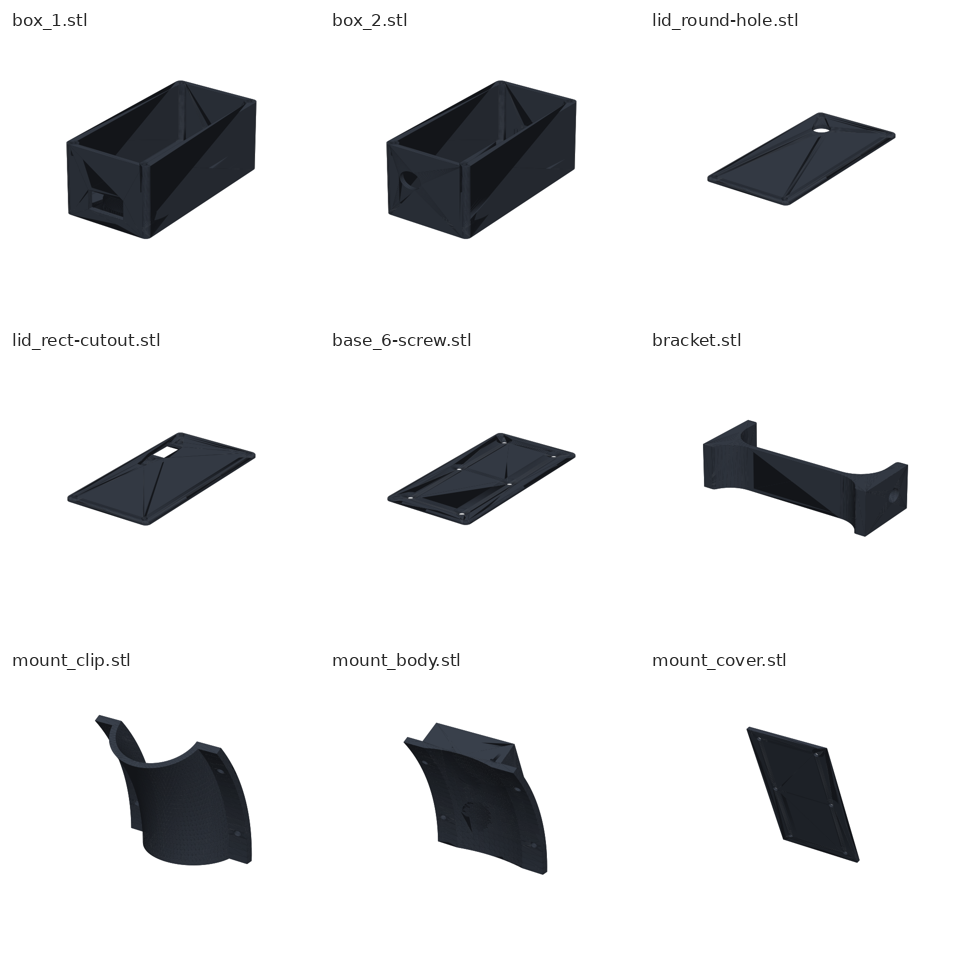
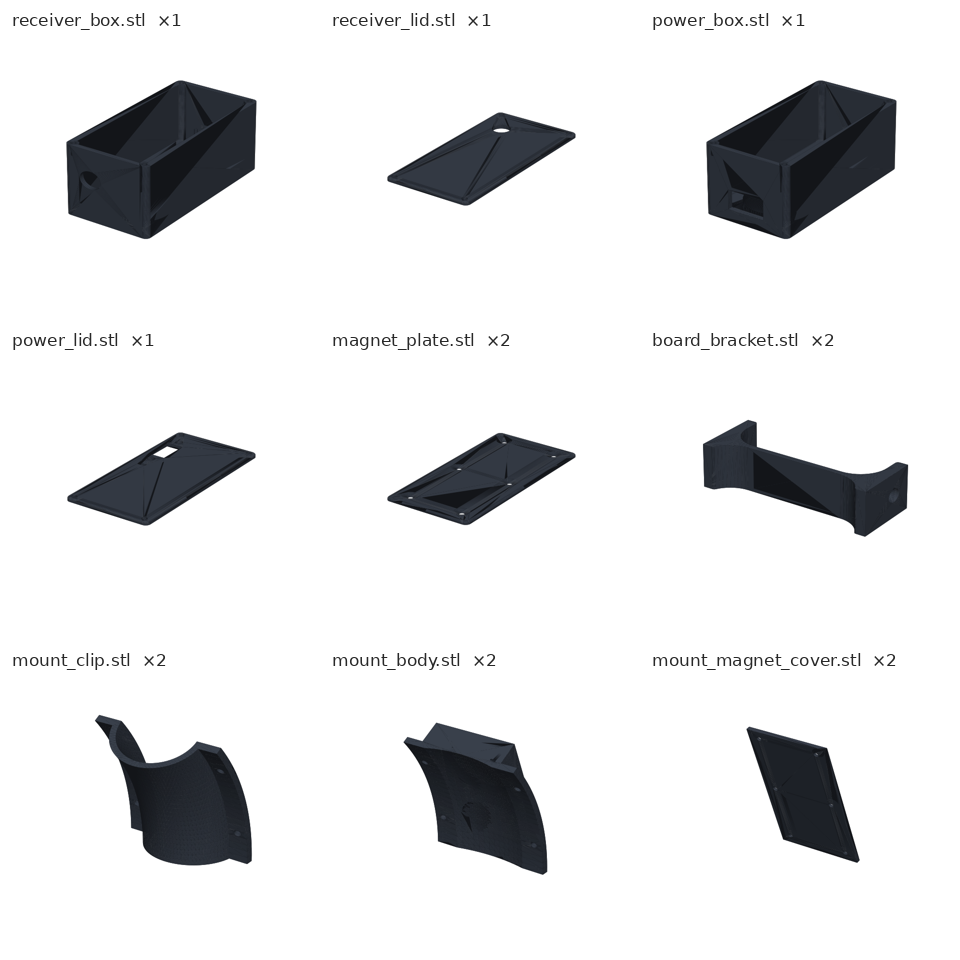
Name enclosure parts and set print quantities

diff --git a/hardware/README.md b/hardware/README.md
@@ -12,16 +12,15 @@ Printable STLs and the editable Fusion 360 sources for both enclosures.
 
 ![Headset module parts](headset-parts.png)
 
-The parts are named by their shape. The file names don't say which module each part belongs to, so check against the photos below:
-
 | Part | Qty | Notes |
 |---|---|---|
-| `box_1`, `box_2` | 1 each | Module bodies, 35 × 70 × 36 mm |
-| `lid_round-hole` | 1 | Lid with the encoder-shaft hole (receiver) |
-| `lid_rect-cutout` | 1 | Lid with the slide-switch cutout (power module) |
-| `base_6-screw` | 1 | Screwed panel, 6 × M2 |
-| `bracket` | 1 | Internal retaining bracket |
-| `mount_clip`, `mount_body`, `mount_cover` | 1 set per module (the plate has one set, so print it twice) | Curved headband mount (see below) |
+| `receiver_box` | 1 | Houses the ESP32-S3-Nano (the box with the round side hole) |
+| `receiver_lid` | 1 | Lid with the encoder-knob hole |
+| `power_box` | 1 | Houses the LiPo, HW-107, HW-106, switch and LED |
+| `power_lid` | 1 | Lid with the slide-switch cutout |
+| `magnet_plate` | 2 | One per box, 6 × M2 screws; it attaches the box to the headband mount |
+| `board_bracket` | 2 | Holds the ESP32 and HW-106 boards in place by sitting in the pin-header grooves (neither board has mounting holes) |
+| `mount_clip`, `mount_body`, `mount_magnet_cover` | 2 each | Curved headband mount, one per module (see below) |
 
 ![Transmitter case and lid](transmitter-parts.png)
 
